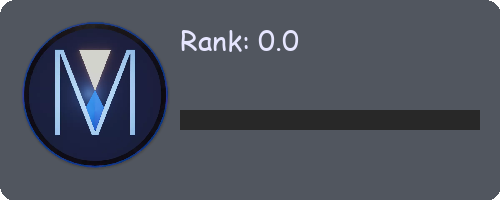
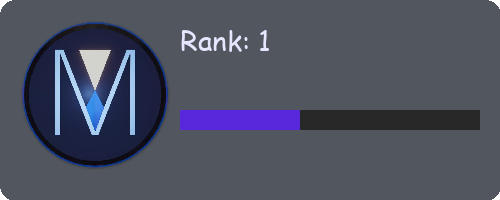
Ranks are now saved

Changed region(s): [[0.36, 0.54, 0.6, 0.66], [0.51, 0.15, 0.6, 0.27]]

diff --git a/bot.py b/bot.py
@@ -19,7 +19,7 @@ with open("token.txt") as file:
 # Definitions
 def updateRankImage(user,rank): # Might be able to skip this and go straight to imaging lib
 	logger.debug("Percentage to next rank: "+str((rank%10)/100))
-	imaging.makeRankCard(user.avatar_url,(rank/10),((rank%10)/10))
+	imaging.makeRankCard(user.avatar_url,(rank//10),((rank%10)/10))
 
 class MyClient(discord.Client):
 
@@ -120,11 +120,12 @@ class MyClient(discord.Client):
 			self.data["servers"][str(guild.id)].update({"ranks":{}}) # Adds ranks section to data to upgrade the server's data
 			ranks = self.data["servers"][str(guild.id)]["ranks"]
 		try:
-			ranks[message.author] = ranks[message.author]+1
+			ranks[str(message.author.id)] = ranks[str(message.author.id)]+1
 		except KeyError:
-			ranks.update({message.author:0}) # Adds person to ranks list
-		print(self.data)
-		self.update_data()
+			ranks.update({message.author.id:0}) # Adds person to ranks list
+		self.data["servers"][str(guild.id)]["ranks"] = ranks
+		print(self.data["servers"][str(guild.id)]["ranks"])
+		await self.update_data()
 
 		# Rules command
 		if message.content == "!rules":
@@ -328,7 +329,7 @@ class MyClient(discord.Client):
 
 		# Sends user rank image
 		if message.content.startswith("!get rank"):
-			updateRankImage(message.author,ranks[message.author])
+			updateRankImage(message.author,ranks[str(message.author.id)])
 			embed_rank = discord.Embed()
 			file = discord.File("card.png")
 			embed_rank.set_image(url="attachment://card.png")
